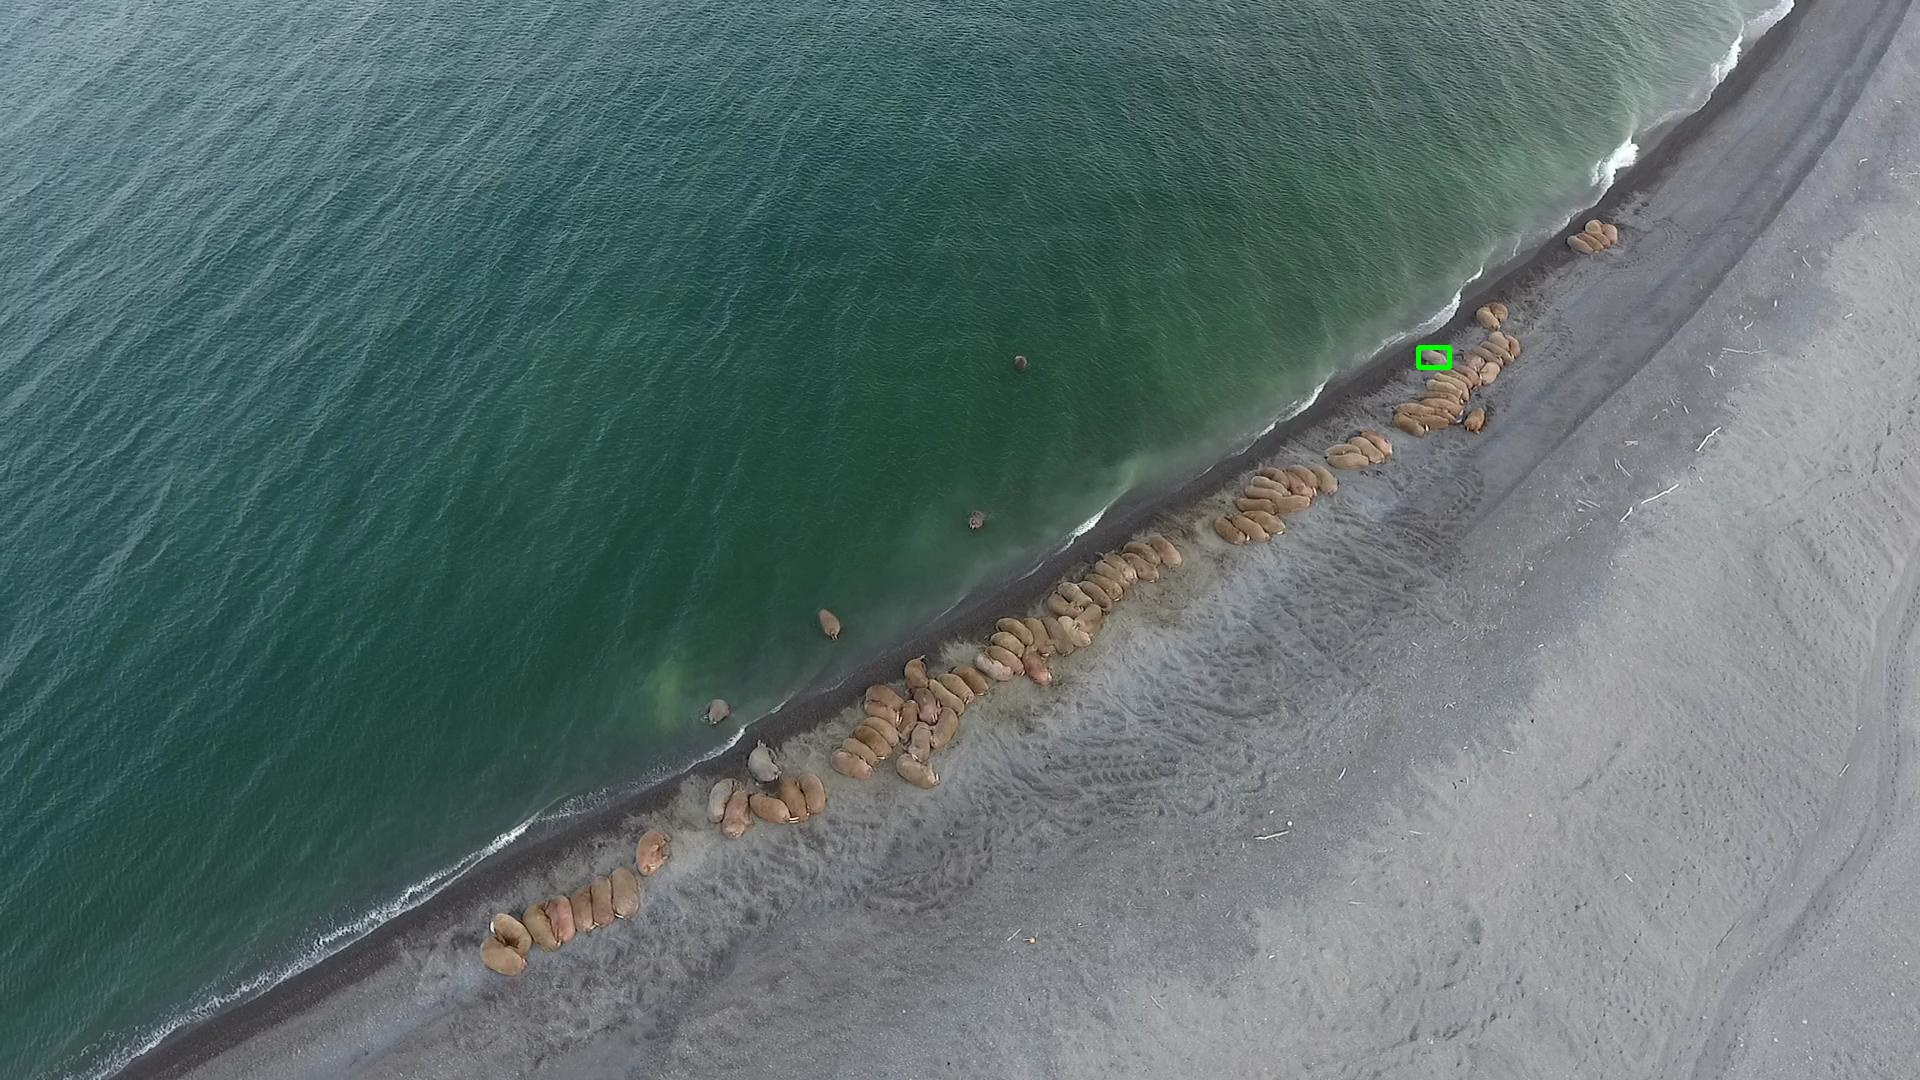
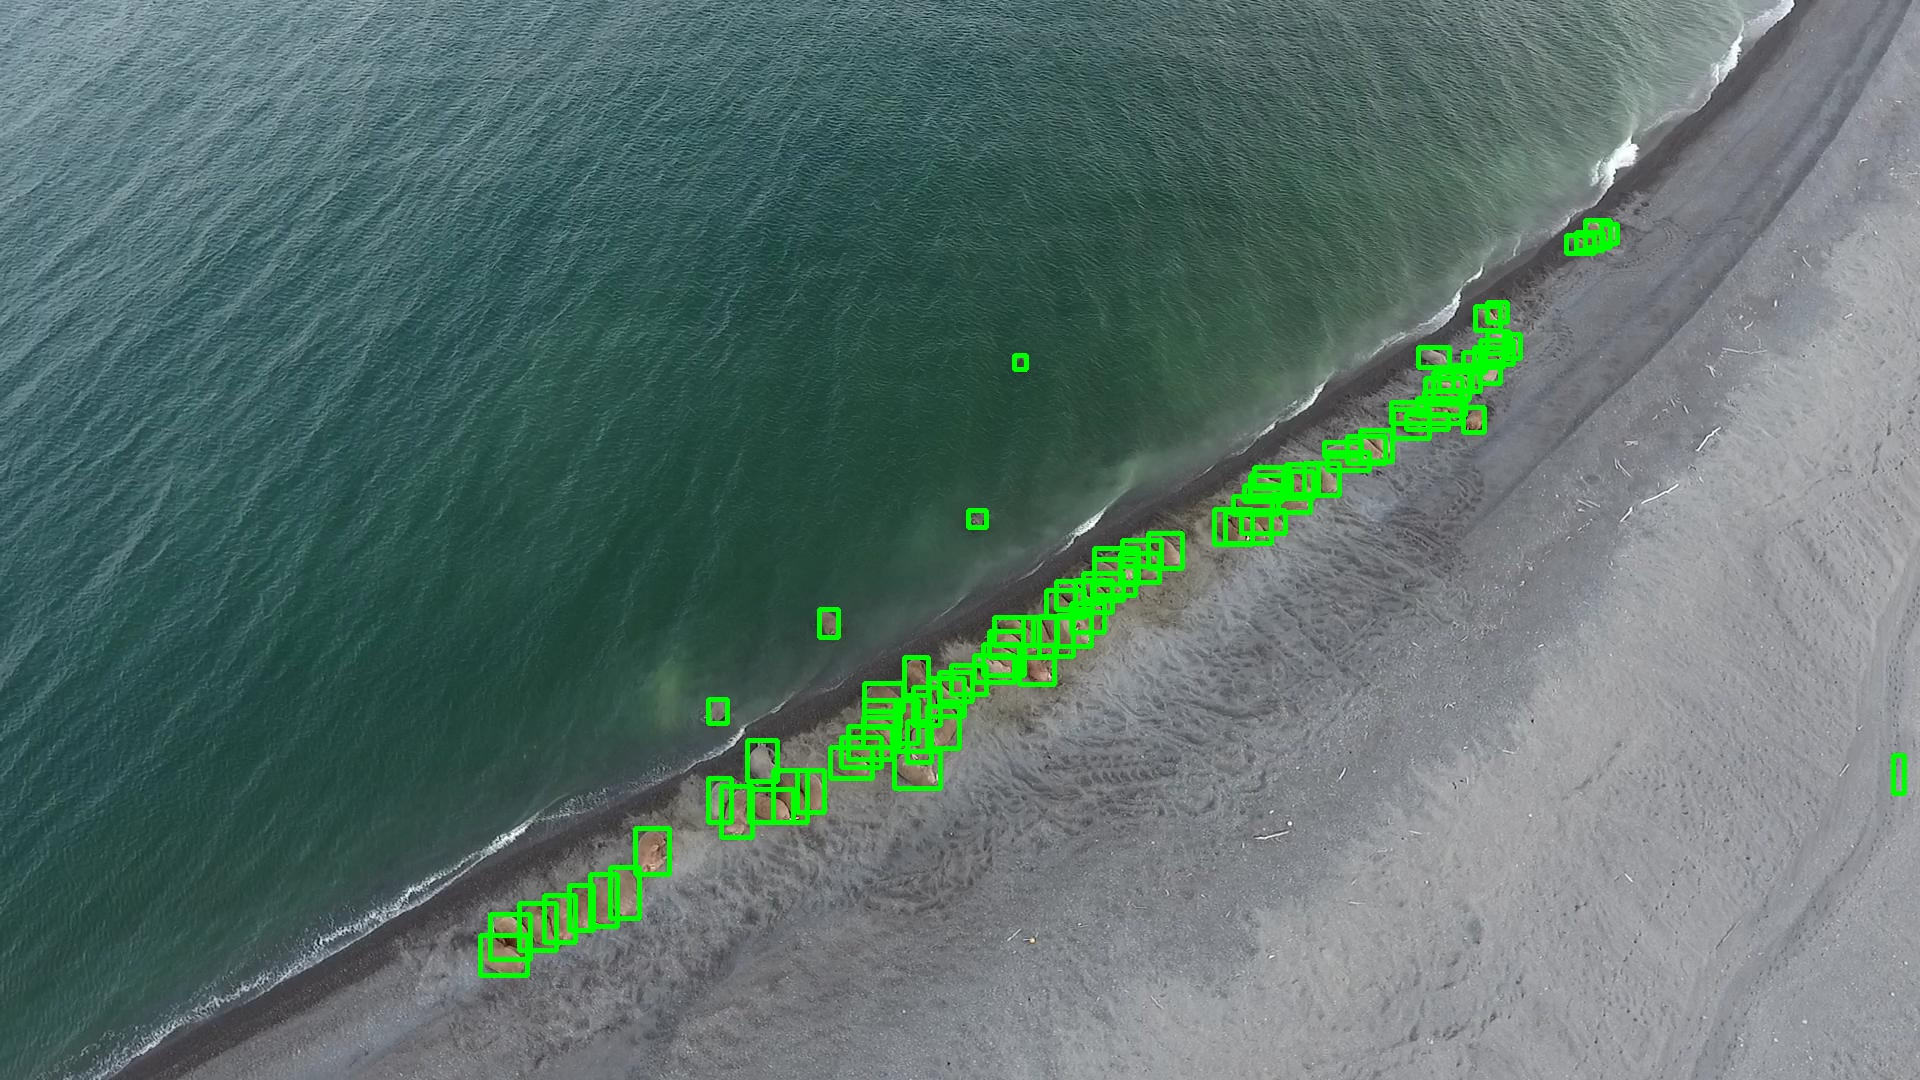
read all boxes

diff --git a/service/imgreader/reader.py b/service/imgreader/reader.py
@@ -12,14 +12,17 @@ markup = Path('service/markup/11.json')
 new_path = Path('service/images/_11.jpg')
 
 
-def draw_box(image_path: Path, box: list[int]):
-    print(box)
+def draw_box(image_path: Path, boxes: list[int]):
+
     image = cv2.imread(str(image_path))
-    center_x, center_y, height, width, const = box
-    left_bottom = (int(center_x), int(center_y))
-    right_bottom = (int(center_x + height), int(center_y + width))
-    print(f'left: {left_bottom}\nright: {right_bottom}')
-    cv2.rectangle(image, left_bottom, right_bottom, (0, 255, 0), 3)
+    for in_box in boxes:
+        box = in_box['bbox']
+        print(box)
+        center_x, center_y, height, width, const = box
+        left_bottom = (int(center_x), int(center_y))
+        right_bottom = (int(center_x + height), int(center_y + width))
+        print(f'left: {left_bottom}\nright: {right_bottom}')
+        cv2.rectangle(image, left_bottom, right_bottom, (0, 255, 0), 3)
     cv2.imwrite(str(new_path), image)
 
 
@@ -30,7 +33,7 @@ def read_boxes(markup: Path) -> list[dict[str, Any]]:
 
 def run():
     marks = read_boxes(markup)
-    box = marks[0]['bbox']
+    box = marks
     draw_box(image_path, box)
 
 run()
